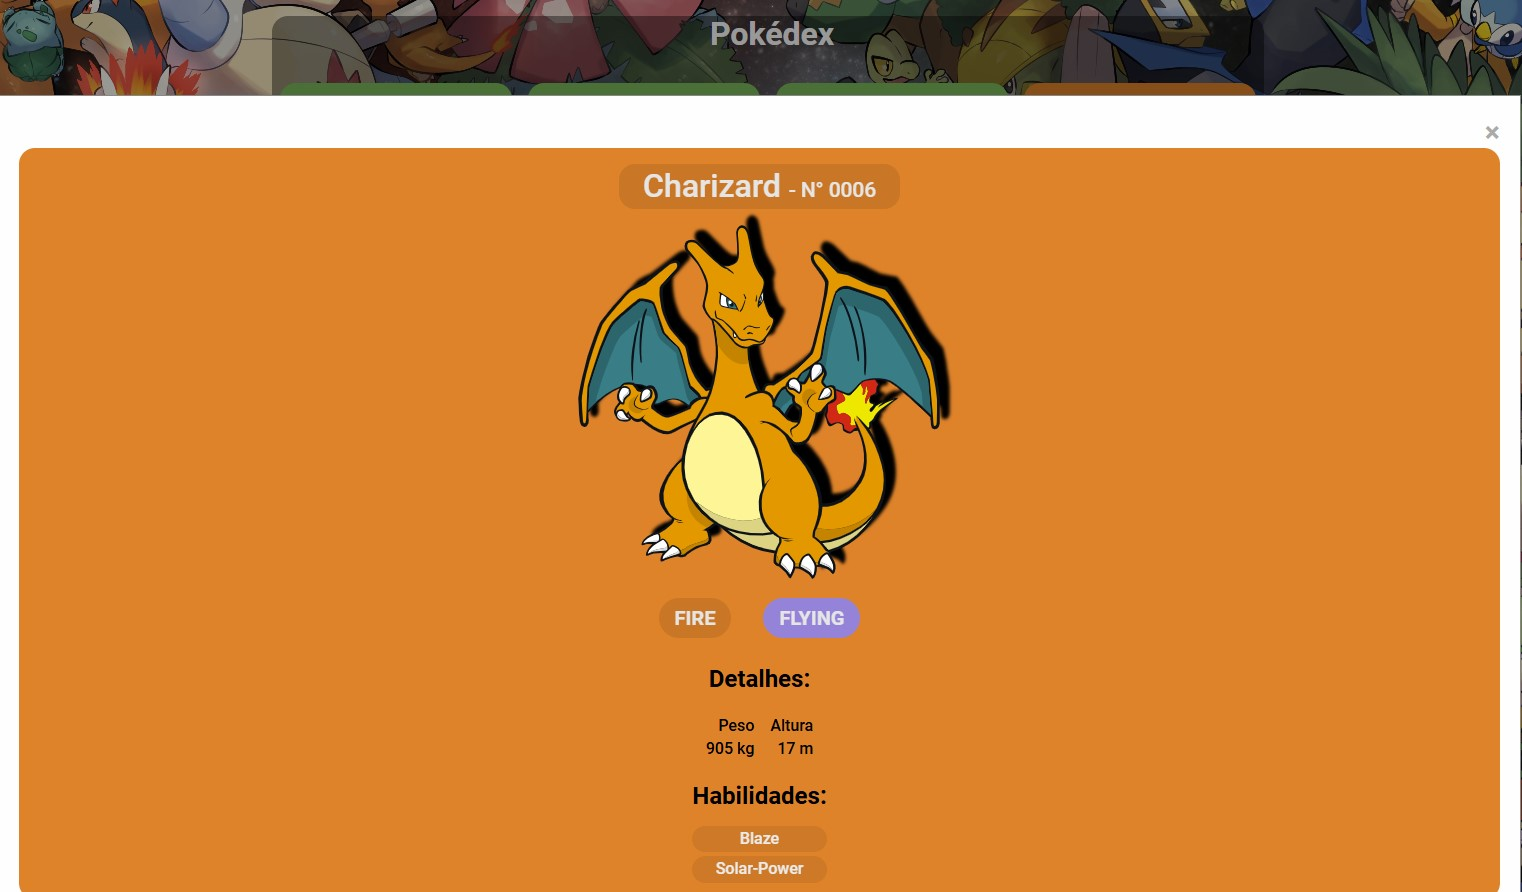
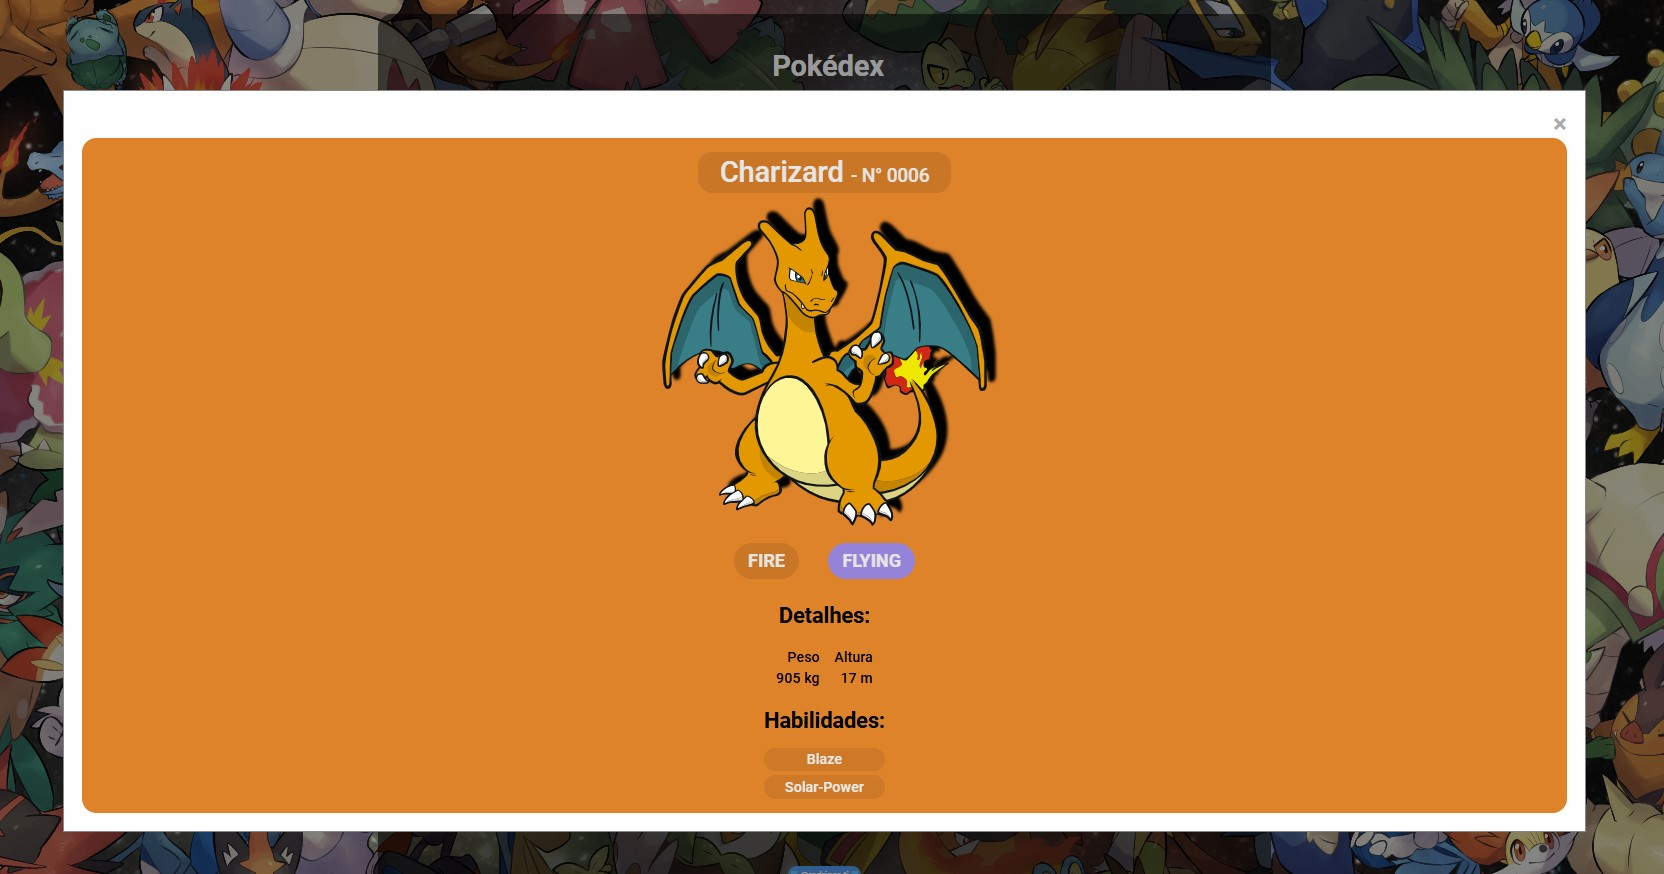
Ajustes index e imagens

diff --git a/assets/css/global.css b/assets/css/global.css
@@ -7,7 +7,8 @@ body {
     background-color: #f6f8fc;
     margin: 0;
     padding: 0;
-    background-image: url('/assets/images/background.jpg'); /* Substitua pelo caminho da sua imagem */
+    background-image: linear-gradient(rgba(0, 0, 0, 0.1), rgba(0, 0, 0, 0.1)), 
+    url('/assets/images/background.jpg'); /* Substitua pelo caminho da sua imagem */
     background-size: cover;
     background-position: center;
     background-repeat: no-repeat;
@@ -23,13 +24,15 @@ body {
     background-color: #fff;
     margin: 0;
     padding: 0;
-    background-image: linear-gradient(rgba(0, 0, 0, 0.4), rgba(0, 0, 0, 0.4)), url('/assets/images/background.jpg'); /* Substitua pelo caminho da sua imagem */
+    background-image: linear-gradient(rgba(0, 0, 0, 0.6), rgba(0, 0, 0, 0.6)), 
+        url('/assets/images/background.jpg'); /* Substitua pelo caminho da sua imagem */
     background-size: cover;
     background-position: center;
     background-repeat: no-repeat;
     background-attachment: fixed;
 
 }
+
 
 
 

diff --git a/index.html b/index.html
@@ -25,7 +25,9 @@
 
 <body>
     <section class="content">
+        <br>
         <h1>Pokédex</h1>
+
 
         <ol id="pokemonList" class="pokemons">
             <!-- ..... Pokemons here ..... -->
@@ -39,6 +41,7 @@
         <footer>
             <p>💻@rodrigor-ti💻</p>
         </footer>
+        <br>
     </section>
 
     <!-- Modal Pokemon Details -->
